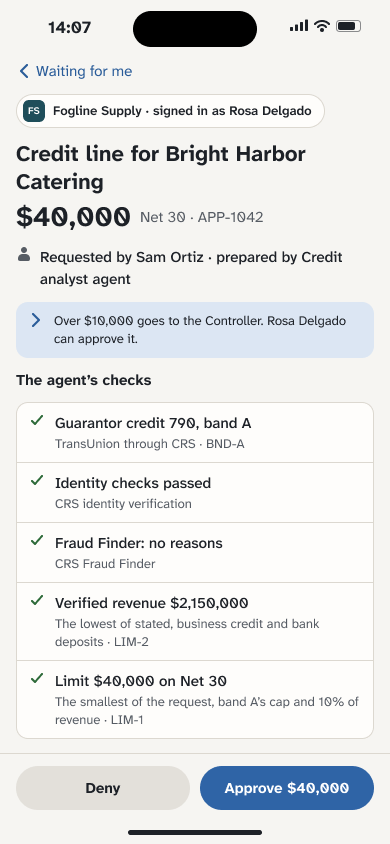
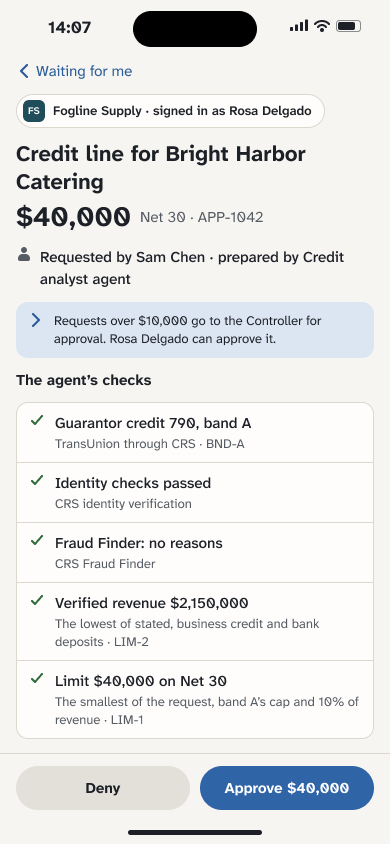
Figma: Business and phone app frames use the approved people (Sam Chen, Priya Nair, Owen Clarke) and the five-line policy

Changed region(s): [[0.1231, 0.3697, 0.8923, 0.4313], [0.5538, 0.2773, 0.8923, 0.3389], [0.4615, 0.2773, 0.5231, 0.3081]]

diff --git a/docs/figma/business/README.md b/docs/figma/business/README.md
@@ -11,23 +11,26 @@ Nessie test accounts.
 
 ## People
 
-These are the people, seats and policy the Business core uses in its demo (branch `business`), so the frames show
-real fields and the box's own sentences.
+These are the people Ben approved at the checkpoint, and the people, seats and policy the Business core uses
+(branch `business`), so the frames show real fields and the box's own sentences.
 
 | Person | Role | Title | Limit | Approves for |
 |---|---|---|---|---|
-| Rosa Delgado | approver | Controller | $50,000 | Controller |
-| Sam Ortiz | requester | Sales | | |
-| Dana Brooks | admin | IT admin | | IT |
-| Lee Morgan | auditor | Auditor | | |
+| Rosa Delgado | approver | Controller | $50,000 | Controller, Fraud reviewer |
+| Sam Chen | requester | Sales | | |
+| Priya Nair | admin | IT admin | | IT |
+| Owen Clarke | auditor | Auditor | | |
 
 The agent seats are the Credit analyst and the Collections clerk. Seats do the work and ask; only a person on a paired
-phone answers a request. The policy is plain text, one rule per line, and the first rule that matches decides:
+phone answers a request. "Clears fraud flags" on People means Rosa approves for the fraud reviewer. The policy is
+plain text, one rule per line. The first rule that matches decides, and a "can't be approved" line applies wherever
+it sits:
 
 ```
-Fraud referrals go to the Controller.
-Over $10,000 goes to the Controller.
-Production changes go to IT.
+Fraud referrals go to the fraud reviewer for approval.
+Requests over $50,000 can't be approved in GurtOS.
+Requests over $10,000 go to the Controller for approval.
+Production changes go to IT for approval.
 Everything else goes to any approver.
 ```
 
@@ -35,28 +38,23 @@ Everything else goes to any approver.
 
 | PNG | Node | What it shows |
 |---|---|---|
-| `1a-people.png` | `111:119` | Settings, People: each person with role, title, paired phone, limit and what they approve for, then the two agent seats ("Asks, never approves"). Dana is signed in |
-| `1b-add-a-person.png` | `111:642` | Add a person: name, title, role, limit and approves for. The next step is a one-time pairing code for their phone; until one is paired, they can't approve |
-| `2-rules.png` | `112:508` | Settings, Rules: the four policy lines with their values highlighted to change, and a tester that shows the route sentence for a request ("Over $10,000 goes to the Controller. Rosa Delgado can approve it."). Under "Always on", the three rules nobody can turn off |
-| `3-waiting-for-me-rosa-phone.png` | `119:1266` (phones `115:697`, `115:776`) | Rosa's phone. Waiting for me holds the $40,000 credit line, the $2,400 write-off and the fraud referral. The $40,000 request shows the Credit analyst agent's checks as evidence, "Requested by Sam Ortiz · prepared by Credit analyst agent", its route sentence, and Deny and Approve $40,000 |
-| `4-audit.png` | `116:936` | The Audit app, opened by Lee (auditor). The timeline for one customer: asked by Sam, prepared by the Credit analyst, routed to Rosa, approved by Rosa, the limit set. Filters for dates, person, seat and app, Timeline and Table, Export CSV, and one entry with the audit columns (by, event, at, asked, seat, app, approver) |
-| `5a-kill-switch-box.png` | `116:1208` | Dana on the box screen: Control Center's Kill switch card, and the confirmation that says what stops, what waits in the queue, what stays open and who can resume |
-| `5b-kill-switch-phone.png` | `119:1370` (phones `115:919`, `115:978`) | The same on Dana's phone: the Kill switch page, then "Paused by Dana Brooks at 10:41" with Resume all agents and the stopped tasks |
-| `5c-all-agents-paused.png` | `116:1474` | The box while paused, signed in as Rosa: the 6 paused tasks, the 3 requests she can still answer, and the notification "All agents paused by Dana Brooks" |
+| `1a-people.png` | `111:119` | Settings, People: each person with role, title, paired phone, limit and what they approve for, then the two agent seats ("Asks, never approves"). Priya is signed in |
+| `1b-add-a-person.png` | `111:642` | Add a person: name, title, role, limit and approves for. After Add, GurtOS shows a QR code to pair their phone; until one is paired, they can't approve |
+| `2-rules.png` | `112:508` | Settings, Rules: the five policy lines with their values highlighted to change, and a tester that shows the route sentence for a request ("Requests over $10,000 go to the Controller for approval. Rosa Delgado can approve it."). Under "Always on", the three rules nobody can turn off |
+| `3-waiting-for-me-rosa-phone.png` | `119:1266` (phones `115:697`, `115:776`) | Rosa's phone. Waiting for me holds the $40,000 credit line, the $2,400 write-off and the fraud referral. The $40,000 request shows the Credit analyst agent's checks as evidence, "Requested by Sam Chen · prepared by Credit analyst agent", its route sentence, and Deny and Approve $40,000 |
+| `4-audit.png` | `116:936` | The Audit app, opened by Owen (auditor). The search "Bright Harbor Catering" shows one customer's timeline: asked by Sam, prepared by the Credit analyst, routed to Rosa, approved by Rosa, the limit set. Filters for dates, person, seat and app, Timeline and Table, Export CSV, and one entry with the audit columns (by, event, at, asked, seat, app, approver) |
+| `5a-kill-switch-box.png` | `116:1208` | Priya on the box screen: Control Center's Kill switch card, and the confirmation that says what stops, what waits in the queue, what stays open and who can resume |
+| `5b-kill-switch-phone.png` | `119:1370` (phones `115:919`, `115:978`) | The same on Priya's phone: the Kill switch page, then "Paused by Priya Nair at 10:41" with Resume all agents and the stopped tasks |
+| `5c-all-agents-paused.png` | `116:1474` | The box while paused, signed in as Rosa: the 6 paused tasks, the 3 requests she can still answer, and the notification "All agents paused by Priya Nair" |
 | `6-server-vs-business.png` | `119:1513` | The same $40,000 request twice. In Server, the one owner gets it on their phone and approves. In Business, the policy sends it to Rosa: Sam's phone shows it waiting with "You asked for this, so someone else has to answer it.", and Rosa's phone has Approve $40,000 |
 
-## What Ben should check
+## Notes
 
-- **The customer name.** The frames call APP-1042 Bright Harbor Catering, as the credit desk track does. The Business
-  demo on branch `business` calls it Harbor Lane Bakery; one of the two should change.
-- **Grace Ito.** The person being added in 1b (assistant controller, $10,000, approves for Controller) is invented.
-- **Filtering to one customer.** The audit filters by person, seat, app and dates. The brief asked for one customer's
-  timeline, so the frame keeps a customer filter the box doesn't have yet.
-- **The $50,000 limit.** Above Rosa's limit, nobody can approve: the route sentence says "Nobody can approve it yet:
-  it is $75,000, above Rosa Delgado's $50,000 limit."
+- **Grace Ito**, the person being added in 1b (assistant controller, $10,000, approves for Controller), is invented.
+- Real screens from the Business core will be in `portal/screenshots/business/` once that branch is merged.
 
-## What the core has, and what it doesn't
+## What the core has
 
-The Business core on branch `business` (not merged yet) has people and roles with limits, pairing a phone to a person,
-the policy and its route sentences, the refusals, the audit with its filters and CSV export, and the kill switch. It
-has no customer filter for the audit.
+The Business core on branch `business` has people and roles with limits, pairing a phone to a person (a QR code
+right after Add), the policy and its route sentences, the refusals, the audit with free-text search, filters and CSV
+export, and the kill switch.

diff --git a/docs/stagelog.md b/docs/stagelog.md
@@ -42,6 +42,7 @@ One line per Figma step: stage, Figma tool, minutes, rating 1 to 5, how the outp
 | Sat Oct 24, 1:36 to 1:40 AM | Design: GurtOS Business, matched to the Business core | Figma Design via Claude Code and Figma's MCP server (`use_figma`, `get_screenshot`) | 4 | 4 | The Business thread sent what its core returns, so the nine frames now use it: its people (Sam Ortiz, Dana Brooks, Lee Morgan), the four policy lines as the Rules list, the box's route sentences and refusals word for word, Rosa's three requests (the $40,000 credit line, the $2,400 write-off, the fraud referral), the audit columns and filters, and the kill switch's "paused by". PNGs replaced in `docs/figma/business/`. |
 | Sat Oct 24, 1:20 to 2:00 AM | Code generation: GurtOS Personal OS on GNOME 46 | The PNGs, the table of how each part ships and the assets in `docs/figma/personal-os/`, read by Claude Code; built as a GNOME Shell extension, Shell stylesheet, libadwaita app, search providers and a Files extension, then checked against each frame on a test VM | 40 | 4 | `personal/`: the top bar's amber "needs you" pill and running count, the popover's approval card, the Agents tile and its menu, lock-screen cards where Deny works and Unlock to approve asks for the password, search in two sections, per-file emblems after Keep, and Settings with a view switcher. The wallpapers, Papirus with slate folders, Bibata, the wordmark, GDM logo and Plymouth theme are installed by `personal/theme/install.sh`. Not built: the Files bar (no nautilus-python API for it), a full Shell gresource, and the Pause and May read controls, which need core APIs. Screenshots in `personal/README.md`. |
 | Sat Oct 24, 1:50 to 2:02 AM | Design: the GurtOS phone app, one app for every machine | Figma Design via Claude Code and Figma's MCP server (`use_figma`, `get_screenshot`); Apple's HIG pages for sheets and notifications; a QR code made with segno | 12 | 4 | Page "GurtOS phone app", built from the approved system's phone frames and components: the Machines sheet (switch like accounts, each machine with its edition, online state and what waits), Add a machine, a home for Server, Personal (Keep and Undo) and Business (Rosa's Waiting for me), the lock-screen notification named by its machine and the approval it opens, and the install flow from the QR code to pairing inside the Home Screen app. Thirteen PNGs in `docs/figma/phone-app/`. |
+| Sat Oct 24, 2:05 to 2:06 AM | Design: GurtOS Business and the phone app, back to the approved people | Figma Design via Claude Code and Figma's MCP server (`use_figma`, `get_screenshot`) | 1 | 4 | Ben approved the checkpoint and the Business thread moved its core to it, so the frames went back to Sam Chen, Priya Nair and Owen Clarke, took the five-line policy (fraud reviewer, the $50,000 ceiling), the new route sentences, the audit search and the QR code after Add a person. Nine Business PNGs and four phone app PNGs replaced. |
 
 ## For Devpost (up to 200 words per stage)
 

diff --git a/docs/figma/phone-app/README.md b/docs/figma/phone-app/README.md
@@ -16,7 +16,7 @@ phone app" in the [design file](https://www.figma.com/design/oppzH621OOOMA31rgLb
 | `2a-home-server.png` | `130:87` | Home, GurtOS Server ("Home box"): what needs you, what runs, and the kill switch (Pause all agents) |
 | `2b-home-personal.png` | `130:174` | Home, GurtOS Personal ("Ben's laptop"): a finished folder task with what changed in the copy, Review changes, Undo and Keep changes; what runs; what was kept, with Put back |
 | `2c-home-business-rosa.png` | `130:295` | Home, GurtOS Business ("Fogline Supply"), signed in as Rosa: Waiting for me, with the Business tabs (Waiting, Tasks, Audit, Settings) |
-| `3a-lock-screen-notification.png` | `133:324` | The lock-screen notification. iOS shows the app (GurtOS); the title is the machine, "Fogline Supply", and the body is the question: "Approve a $40,000 credit line? Bright Harbor Catering, asked by Sam Ortiz. Over $10,000 goes to the Controller." |
+| `3a-lock-screen-notification.png` | `133:324` | The lock-screen notification. iOS shows the app (GurtOS); the title is the machine, "Fogline Supply", and the body is the question: "Approve a $40,000 credit line? Bright Harbor Catering, asked by Sam Chen." |
 | `3b-approval-from-notification.png` | `133:381` | What tapping it opens: the request on Fogline Supply, with a chip saying which machine and who you are, the agent's checks, and Deny and Approve $40,000 |
 | `4a-install-scan.png` | `133:445` | Install, step 1: the Camera app reads the QR code on the machine's screen and offers app.gurtos.com |
 | `4b-install-safari.png` | `133:469` | Step 2: app.gurtos.com in Safari explains the four steps and points at Safari's Page Menu button |
